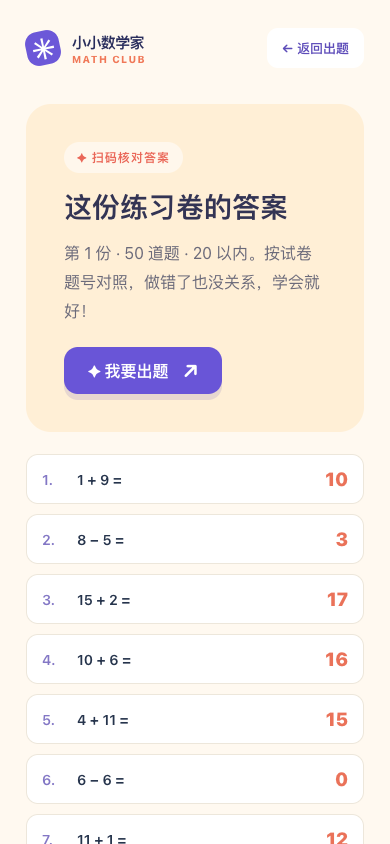
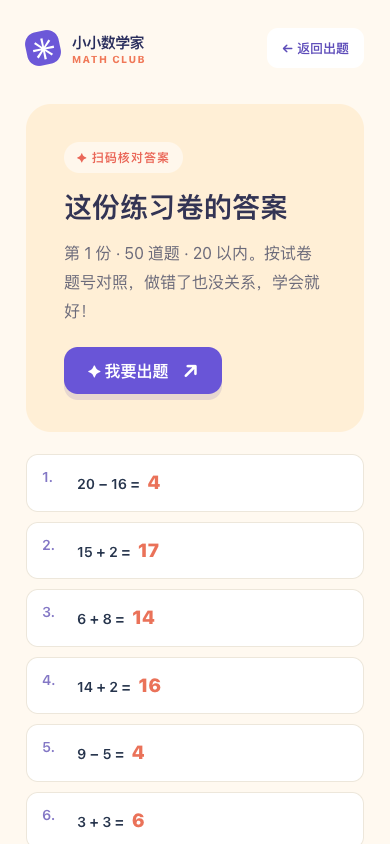
fix: keep worksheet answers together and cap new ranges at 200

diff --git a/src/main.ts b/src/main.ts
@@ -60,7 +60,7 @@ function decodeSheet(value: string | null): { sheet: SheetCopy; settings: Settin
 }
 
 let settings: Settings = { count: 50, limit: 20, operations: ['+', '−'], operands: 2 }
-const limitPresets = [5, 10, 20, 50, 100, 200, 500, 1000]
+const limitPresets = [5, 10, 20, 50, 100, 200]
 let customLimit = 200
 let useCustomLimit = false
 let paperStyle: PaperStyle = 'plain'
@@ -197,8 +197,8 @@ function renderSharedAnswers(): void {
   const { sheet, settings: sharedSettings, copy } = sharedSheet
   app.innerHTML = `<main class="shared-answers"><div class="shared-header"><div class="brand"><div class="brand-mark" aria-hidden="true">✳</div><span>小小数学家 <small>Math Club</small></span></div><a href="${homeUrl}">← 返回出题</a></div>
     <div class="shared-intro"><span class="eyebrow">✦ 扫码核对答案</span><h1>这份练习卷的答案</h1><p>第 ${copy} 份 · ${sharedSettings.count} 道题 · ${sharedSettings.limit} 以内。按试卷题号对照，做错了也没关系，学会就好！</p><a class="shared-start" href="${homeUrl}">✦ 我要出题 <span aria-hidden="true">↗</span></a></div>
-    <div class="shared-grid">${sheet.worksheet.problems.map((problem, index) =>
-      `<div class="shared-answer"><span class="shared-number">${index + 1}.</span><span>${problem.text} =</span><strong>${problem.answer}</strong></div>`
+    <div class="shared-grid" style="--answer-screen-columns:${sharedSettings.operands === 2 ? 3 : 2}">${sheet.worksheet.problems.map((problem, index) =>
+      `<div class="shared-answer"><span class="shared-number">${index + 1}.</span><span class="shared-equation">${problem.text} <span class="shared-result">= <strong>${problem.answer}</strong></span></span></div>`
     ).join('')}</div><p class="shared-footer">每一题认真思考，都是一次进步 ✨</p></main>`
 }
 
@@ -218,7 +218,7 @@ function render(): void {
     <main class="workspace"><div class="workspace-heading"><div><span class="section-eyebrow">LET'S GET STARTED</span><h2>制作你的练习卷 <span aria-hidden="true">✏</span></h2></div><p>简单几步，就能开始今天的数学冒险！</p></div>
       <div class="workspace-grid"><aside class="controls" aria-label="出题设置">
         <div class="control-card"><div class="card-title"><span class="title-icon peach">01</span><div><h3>今天练多少？</h3><p>选一个刚刚好的题量</p></div></div><fieldset><legend>每份题目数量</legend><div class="choice-row">${[50, 100].map((n) => choice('count', n, `${n} 题`, settings.count === n)).join('')}</div></fieldset><label class="custom-range">打印份数（每份题目不同）<input type="number" name="copies" min="1" max="10" step="1" value="${copies}" inputmode="numeric" ${settings.count === 100 ? 'disabled' : ''}></label>${settings.count === 100 ? '<p class="copies-hint">要打印多份不同试卷，请先选 50 题。</p>' : '<p class="copies-hint">每份 50 题，最多 10 份。</p>'}</div>
-        <div class="control-card"><div class="card-title"><span class="title-icon lavender">02</span><div><h3>数字到哪里？</h3><p>从简单开始，慢慢升级</p></div></div><fieldset><legend>数字范围</legend><div class="choice-row range-options">${limitPresets.map((n) => choice('limit', n, `${n} 以内`, !useCustomLimit && settings.limit === n)).join('')}${choice('limit', 'custom', '自定义', useCustomLimit)}</div><label class="custom-range">自定义上限（2～1000）<input type="number" name="customLimit" min="2" max="1000" step="1" value="${customLimit}" inputmode="numeric"></label></fieldset></div>
+        <div class="control-card"><div class="card-title"><span class="title-icon lavender">02</span><div><h3>数字到哪里？</h3><p>从简单开始，慢慢升级</p></div></div><fieldset><legend>数字范围</legend><div class="choice-row range-options">${limitPresets.map((n) => choice('limit', n, `${n} 以内`, !useCustomLimit && settings.limit === n)).join('')}${choice('limit', 'custom', '自定义', useCustomLimit)}</div><label class="custom-range">自定义上限（2～200）<input type="number" name="customLimit" min="2" max="200" step="1" value="${customLimit}" inputmode="numeric"></label></fieldset></div>
         <div class="control-card"><div class="card-title"><span class="title-icon mint">03</span><div><h3>做什么运算？</h3><p>可以同时选好几种哦</p></div></div><fieldset><legend>运算方式（可多选）</legend><div class="choice-row operations">${operationSymbols.map((operator) =>
           `<label class="choice op-choice"><input type="checkbox" name="operation" value="${operator}" ${settings.operations.includes(operator) ? 'checked' : ''}><span><b>${operator}</b>${operationNames[operator]}</span></label>`).join('')}</div></fieldset>
           <fieldset><legend>每道题几个数字？</legend><div class="choice-row">${([2, 3, 4] as OperandCount[]).map((n) => choice('operands', n, `${n} 个`, settings.operands === n)).join('')}</div></fieldset></div>
@@ -266,8 +266,8 @@ app.addEventListener('change', (event) => {
     }
     if (input.name === 'customLimit') {
       const requested = Number(input.value)
-      if (!Number.isInteger(requested) || requested < 2 || requested > 1000) {
-        error = '请输入 2～1000 之间的整数。'
+      if (!Number.isInteger(requested) || requested < 2 || requested > 200) {
+        error = '请输入 2～200 之间的整数。'
         render()
         return
       }

diff --git a/src/style.css b/src/style.css
@@ -14,6 +14,8 @@
 .paper-heading-right{flex-direction:row;align-items:flex-start;gap:2mm}.paper-qr-stack{display:flex;flex-direction:column;align-items:center;gap:1mm}.paper-heading-right .paper-qr-hint{order:0;align-self:flex-start;margin-top:8mm}.paper-heading-right .paper-page{order:0}.paper-columns{padding-top:4mm}
 .shared-answers{max-width:1080px;min-height:100vh;margin:auto;padding:28px 26px 65px}.shared-header{display:flex;align-items:center;justify-content:space-between;gap:12px}.shared-header a{color:#5d4cb9;background:#fff;padding:11px 15px;border-radius:11px;text-decoration:none;font-size:13px;font-weight:700}.shared-intro{background:#ffefd6;border-radius:25px;padding:38px;margin:36px 0 22px}.shared-intro h1{font-size:clamp(28px,5vw,43px);color:#333454;margin:14px 0 12px}.shared-intro p{color:#6b6a7a;line-height:1.8;margin:0}.shared-grid{display:grid;grid-template-columns:repeat(auto-fill,minmax(210px,1fr));gap:10px}.shared-answer{display:flex;align-items:center;gap:8px;min-width:0;background:#fff;border:1px solid #ede7db;border-radius:12px;padding:13px 15px;font-size:14px;font-weight:600}.shared-answer span:nth-child(2){min-width:0;flex:1}.shared-number{color:#8377c5;width:27px;flex:none}.shared-answer strong{font-size:19px;color:#ea7259}.shared-footer{text-align:center;color:#8f8995;padding-top:36px;font-size:13px}
 .shared-start{display:inline-flex;align-items:center;justify-content:center;gap:14px;min-height:46px;margin-top:22px;padding:12px 24px;border-radius:14px;background:#6955d7;color:#fff;text-decoration:none;font-size:16px;font-weight:800;box-shadow:0 6px 0 #5949ad25;transition:transform .15s,box-shadow .15s}.shared-start:hover{transform:translateY(-2px);box-shadow:0 8px 14px #5949ad32}.shared-start:focus-visible{outline:3px solid #29245c;outline-offset:3px}.shared-start span{font-size:20px}
+.shared-grid{grid-template-columns:repeat(var(--answer-screen-columns,2),minmax(0,1fr))}.shared-answer{justify-content:flex-start;align-items:flex-start}.shared-answer .shared-equation{flex:0 1 auto;line-height:1.55}.shared-result{display:inline-block;white-space:nowrap}.shared-result strong{margin-left:4px}
+@media(max-width:700px){.shared-grid{grid-template-columns:minmax(0,1fr)}}
 .hero-top{display:flex;align-items:flex-start;justify-content:space-between;gap:18px}.site-qr{display:flex;align-items:center;gap:10px;padding:8px 13px 8px 8px;background:#fff;border:1px solid #f2dfc9;border-radius:16px;box-shadow:0 7px 20px #99735216;color:#44446b;text-decoration:none;font-size:12px;font-weight:800;z-index:3}.site-qr img,.qr-loading{width:90px;height:90px;display:grid;place-items:center;flex:none;border-radius:9px}.qr-loading{background:#f0edff;font-size:35px;color:#6755cf}.site-qr small{display:block;color:#a6a2a3;font-size:10px;margin-top:5px;font-weight:600;white-space:nowrap}.hero-doodle{right:260px;top:118px;transform:scale(.7);transform-origin:center right}.answer-columns{display:grid;grid-template-columns:repeat(var(--answer-columns),minmax(0,1fr));gap:7mm;flex:1;min-height:0}.answer-column{display:grid;grid-template-rows:repeat(25,minmax(0,1fr))}.answer-row{border-bottom:1px solid #e8e9eb;display:flex;align-items:center;justify-content:space-between;padding:0 3mm;font-size:11pt;color:#666}.answer-row strong{color:#262a42;font-size:12pt}.answer-page .paper-top{height:35mm}
 @media(max-width:800px){.hero-doodle{opacity:.24;right:-40px}.workspace-grid{display:block}.controls{display:grid;grid-template-columns:repeat(2,1fr);margin-bottom:24px;align-items:stretch}.control-card{min-width:0}.generate-button{align-self:stretch}.preview-section{width:100%}.workspace-heading p{display:none}}
 @media(max-width:570px){.hero-inner{min-height:310px;padding:20px 22px 35px}.hero-copy{padding-top:40px}.hero-copy p{font-size:13px}.hero-doodle{opacity:.12;right:-100px;top:70px}.workspace{padding:31px 16px 55px}.workspace-heading{margin-bottom:21px}.workspace-heading h2{font-size:24px}.controls{display:flex;gap:12px}.control-card{padding:18px}.preview-toolbar{align-items:flex-start}.preview-toolbar h3{font-size:16px}.print-button{padding:10px;font-size:12px}.preview-section{padding:13px}.site-footer{padding:0 16px 25px;gap:8px;font-size:10px}}

diff --git a/worklogs/2026-11-03.md b/worklogs/2026-11-03.md
@@ -188,3 +188,10 @@
 - 改动：将打印纸张从精确填满 210×297mm 改为带 10mm @page 页边距、试卷内容高度 265mm 和自适应可打印宽度；仅在后一张纸之前强制分页，不在末页追加分页符。第一行题目与信息栏之间增加 4mm 间距；将“扫码看答案”文字移到二维码左侧，页码仍位于二维码下方。同步更新 `README.md`、需求和协作规则。
 - 验证：`npm run build` 通过；桌面 Chrome 和模拟 390px 手机视口的 Chrome 均在 A4、关闭背景图形的设置下，五种纸张底纹 × 50 / 100 题 × 是否带答案的 20 种组合页数准确（共检查 40 组），无多出空白页；模拟手机打印 3 份各 50 题并附答案正好 6 页。浏览器测量“扫码看答案”位于二维码左侧、页码在二维码下方、第一行题目与信息栏相距约 15px。已更新 README 中的出题页和试卷截图以反映新排版。实际 iOS Safari / 手机打印机尚未现场验证。
 - 未完成：请使用实际手机重新尝试打印；若仍出现空白页，需记录手机系统、浏览器、打印目标及纸张设置进一步排查。
+
+## 调整答案页排版与数字范围
+
+- 目的：解决手机答案与算式距离过远、电脑长算式难看换行，以及数字范围选项过大的反馈。
+- 改动：答案页改为算式与答案紧邻显示，等号与答案保持同一行；桌面端两数字题用三列，多数字题用两列，手机端一列。去掉 500 和 1000 以内两个新卷选项，自定义上限限制为 200，保留旧二维码读取 1000 以内的能力。同步更新 `README.md`、需求和协作规则。
+- 验证：`npm run build` 通过；Chrome 390px 手机答案卡片中答案紧随算式（样例算式起点 x=77px、等号/答案起点 x≈124px）；桌面 1440px 的四数字题使用两列约 509px 宽的卡片，截图中算式与答案保持同行。浏览器中 500 以内旧二维码仍可显示 50 条答案，1000 以内旧二维码仍可显示 100 条答案；页面不再显示 500 / 1000 以内选项，自定义输入最大值为 200，输入 201 时提示范围错误。已更新 README 的首页与手机答案截图。
+- 未完成：自定义域名 HTTPS 证书仍待 GitHub Pages 自动签发。

diff --git a/README.md b/README.md
@@ -6,12 +6,12 @@
 
 ### 可以做什么
 
-- **按需要出题**：选择每份 50 或 100 题；数字范围有 5、10、20、50、100、200、500、1000 以内，也可以自定义 2～1000 的整数上限。
+- **按需要出题**：选择每份 50 或 100 题；数字范围有 5、10、20、50、100、200 以内，也可以自定义 2～200 的整数上限。
 - **选择计算方式**：加、减、乘、除可多选，每题可使用 2、3 或 4 个数字。一年级默认是 20 以内的两数字加减题。所有数字、中间结果和答案均在选定范围内，且不会出现负数；除法只出能整除的题。
 - **一次制作多份**：50 题模式可生成 1～10 份题目不同的试卷，而不是把同一张纸复印多次；100 题模式固定为一份。当题目条件过窄、无法保证多份不同的时候，网页会提示调整设置。
 - **选择整页底纹**：清爽白纸、数学方格、横线、点阵、田字格。底纹覆盖整张试卷，而不是只加在等号后面；屏幕预览与打印版式对应。
 - **按 A4 打印**：每张试卷纸 50 题，顶部留有姓名、日期、年级、得分和用时的填写位置，第一行题目与页眉分隔线留有间距。两数字基础题使用三列，较长的算式使用两列。100 题分成两张 A4；可以选择为**每份**试卷再加印一张答案 A4。打印版留有安全页边距，避免移动端额外产生空白页。
-- **扫码核对答案**：每张试卷右上角都有专属二维码，左侧标注“扫码看答案”，页码在二维码下方。手机扫码可在网页查看**这一份试卷**的算式与答案；答案页有“我要出题”按钮，可以直接回到出题首页。
+- **扫码核对答案**：每张试卷右上角都有专属二维码，左侧标注“扫码看答案”，页码在二维码下方。手机扫码可在网页查看**这一份试卷**的算式与答案，答案紧跟对应算式；较长的算式在电脑上使用更宽的卡片。答案页有“我要出题”按钮，可以直接回到出题首页。
 
 ### 使用方法
 

diff --git a/docs/requirements.md b/docs/requirements.md
@@ -6,7 +6,7 @@
 
 - 选择 **50 题**或 **100 题**；每 50 题排在一张 A4 纸上。
 - 选择 50 题时可指定 1～10 份，分别生成不同的 50 题试卷（而不是将同一页重复打印）；100 题模式只能生成 1 份。若当前约束无法保证每份题目不同，禁止打印并提示调整条件。
-- 选择 **5、10、20、50、100、200、500、1000 以内**，或输入 **2～1000** 的自定义整数上限；需要时可在验证排版后扩展更大范围。
+- 选择 **5、10、20、50、100、200 以内**，或输入 **2～200** 的自定义整数上限。旧试卷二维码中已生成的更大范围题目仍应能显示原答案。
 - 加、减、乘、除可多选；一年级默认使用加减法。
 - 每题可设置 **2、3 或 4 个数字**。多步混合运算遵循常规运算顺序，需要改变顺序时明确写出括号。
 - 每张卷尽量避免重复题；题目组合不足时给出提示，而不是无限等待。
@@ -27,6 +27,7 @@
 - 保持文字、按钮与背景的可读对比度；屏幕上的丰富色彩不应带入打印试卷的大面积背景，避免费墨或遮挡手写区域。
 - 每张打印试卷右上角显示**该份试卷的专属二维码**，二维码**左侧**标注“**扫码看答案**”，页码放在二维码下方；扫码打开当前可访问的站点（包括 Fork 站点），网页展示这份试卷按题号排列的算式与答案。多份试卷分别有各自的二维码；100 题的两页使用同一个二维码。二维码不得依赖服务端保存题目，网址里的版本与种子必须可重现对应卷面。本站自定义域名定为 `math.svenshen.me`。DNS 未生效前不能把二维码硬编码到不可访问的域名。
 - 扫码打开的答案页顶部提供醒目的“**我要出题**”按钮，点击返回本网站的出题首页，方便看完答案后生成自己的练习卷。
+- 手机答案页的答案应紧跟算式，不应被推到卡片最右边；电脑答案页应根据算式长短使用合适列数，避免一个等号单独换行。
 
 ## 打印要求
 

diff --git a/AGENTS.md b/AGENTS.md
@@ -15,6 +15,7 @@
 - 多数字混合运算的显示与求值规则必须一致；不要通过直接计算展示字符串或使用 `eval` 来决定答案。
 - 顾及一年级使用场景：默认设置易懂，算式清楚，保留足够手写空间。打印内容按 A4 每页 50 题排版，每页都要有姓名、日期、年级、得分、用时栏。支持白纸、数学本子方格、横线、点阵和田字格五种整页纸张底纹，保持分页一致；底纹不能只依赖打印背景图形选项，不能只在算式后面局部显示。可选答案每份试卷只额外占一张 A4（50 / 100 题均如此）。
 - 网页 UI 应色彩丰富、适合小孩操作，但仍保持文字对比度、明确的选中状态和易触达的按钮；屏幕视觉与打印卷面分离，不让彩色装饰造成打印费墨、分页错误或书写障碍。
+- 出题范围选项最高为 200 以内，自定义上限也不得超过 200；已有较大范围试卷的二维码仍须能解码。手机答案页让答案紧跟算式，长算式在桌面端使用足够宽的卡片。
 - 每张打印试卷右上角的二维码应能打开网站并显示**对应试卷**的算式与答案；二维码左侧标注“扫码看答案”，页码在二维码下方。多份试卷的二维码必须分别对应各自答案，已有二维码的随机算法版本应保持可重现。短算式可用三列、长算式用两列，但每页始终是 50 题，且不挤占答案书写空间。50 题模式可生成多份不同试卷；100 题模式限一份，答案每份一张 A4。
 - 优先保持实现简单、可访问、便于在 GitHub Pages 静态托管；不要引入没有必要的服务端依赖。
 
